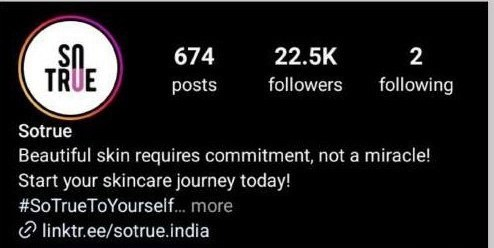
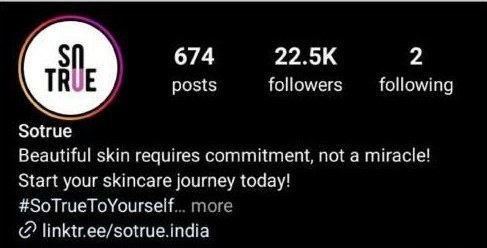
Crop the capture artefacts off the two real plates
The Srivari feed carried a screen-recorder icon over it, visible at the
plate edge on desktop. The Sotrue profile carried a six-pixel blown-out
strip down its right edge, brightness 200 against a near-black image.
Both are cropped out; both keep their embedded provenance.

diff --git a/index.html b/index.html
@@ -369,7 +369,7 @@ a{ color:inherit; text-underline-offset:.2em }
   opacity:.92; filter:contrast(1.04) saturate(.96);
 }
 .id-plate.p-srivari{ top:0; right:-12%; width:60%; height:46% }
-.id-plate.p-sotrue { top:7.6rem; left:var(--gut); width:77%; aspect-ratio:494/248 }
+.id-plate.p-sotrue { top:7.6rem; left:var(--gut); width:77%; aspect-ratio:487/248 }
 .id-no{
   position:absolute; top:4.6rem; left:var(--gut); z-index:2;
   display:flex; align-items:baseline; gap:var(--s-3);
@@ -386,7 +386,7 @@ a{ color:inherit; text-underline-offset:.2em }
   /* an identity that carries a plate keeps its text out of the plate's
      column. declared before the quiet layout so that one keeps its own. */
   .id:has(.id-plate) .id-in{ max-width:66% }
-  .id-plate.p-sotrue { left:auto; top:auto; bottom:12%; right:6%; width:34%; aspect-ratio:494/248 }
+  .id-plate.p-sotrue { left:auto; top:auto; bottom:12%; right:6%; width:34%; aspect-ratio:487/248 }
 }
 .id[data-face="bodoni"] .id-name{
   font-family:"Bodoni Moda",ui-serif,Georgia,serif; font-optical-sizing:auto;
@@ -656,7 +656,7 @@ footer{
     <article class="id f-srivari" data-face="bodoni" data-lay="bottom">
       <span class="id-no"><b>01</b><i>/ 11</i></span>
       <div class="id-plate p-srivari">
-        <img src="assets/plate-srivari.jpg" width="312" height="530" loading="lazy" decoding="async"
+        <img src="assets/plate-srivari.jpg" width="268" height="530" loading="lazy" decoding="async"
              alt="The Srivari Fashion Jewellery feed, rebuilt on a single green and gold template.">
       </div>
       <div class="id-in">
@@ -694,7 +694,7 @@ footer{
     <article class="id f-sotrue" data-face="grot" data-lay="quiet">
       <span class="id-no"><b>04</b><i>/ 11</i></span>
       <div class="id-plate p-sotrue">
-        <img src="assets/plate-sotrue.jpg" width="494" height="248" loading="lazy" decoding="async"
+        <img src="assets/plate-sotrue.jpg" width="487" height="248" loading="lazy" decoding="async"
              alt="The Sotrue profile showing 674 posts and 22.5K followers.">
       </div>
       <div class="id-in">
